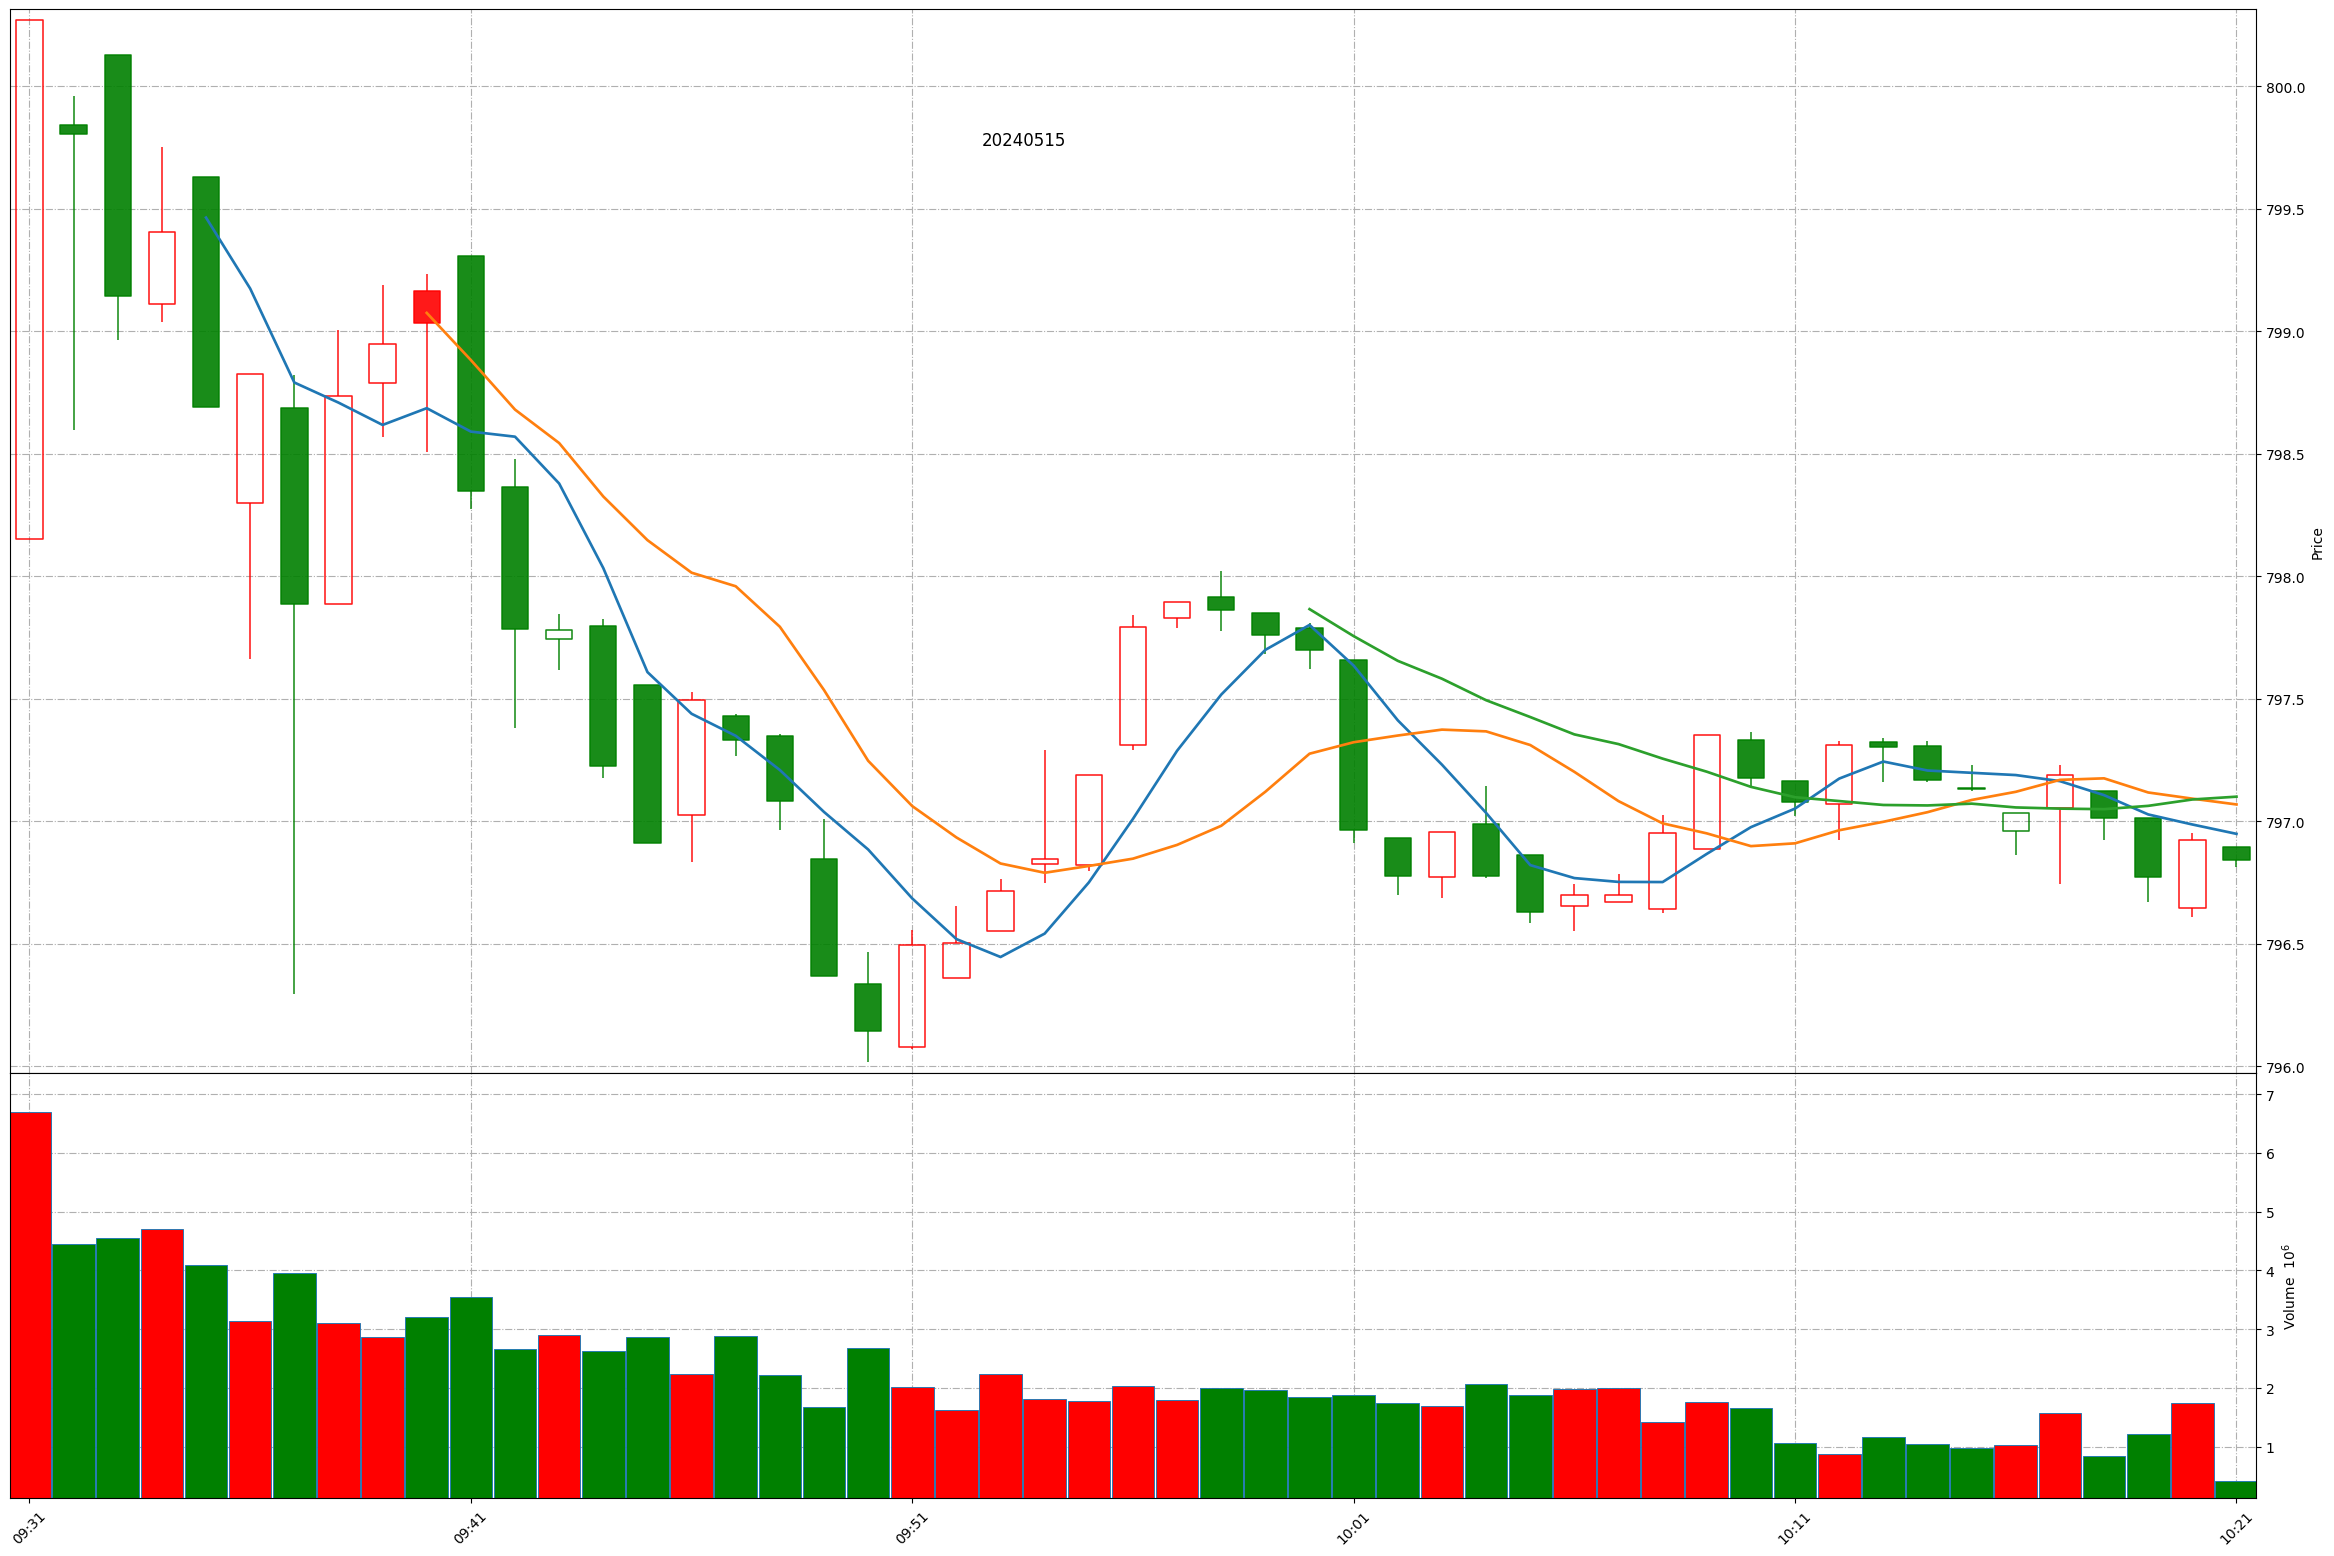
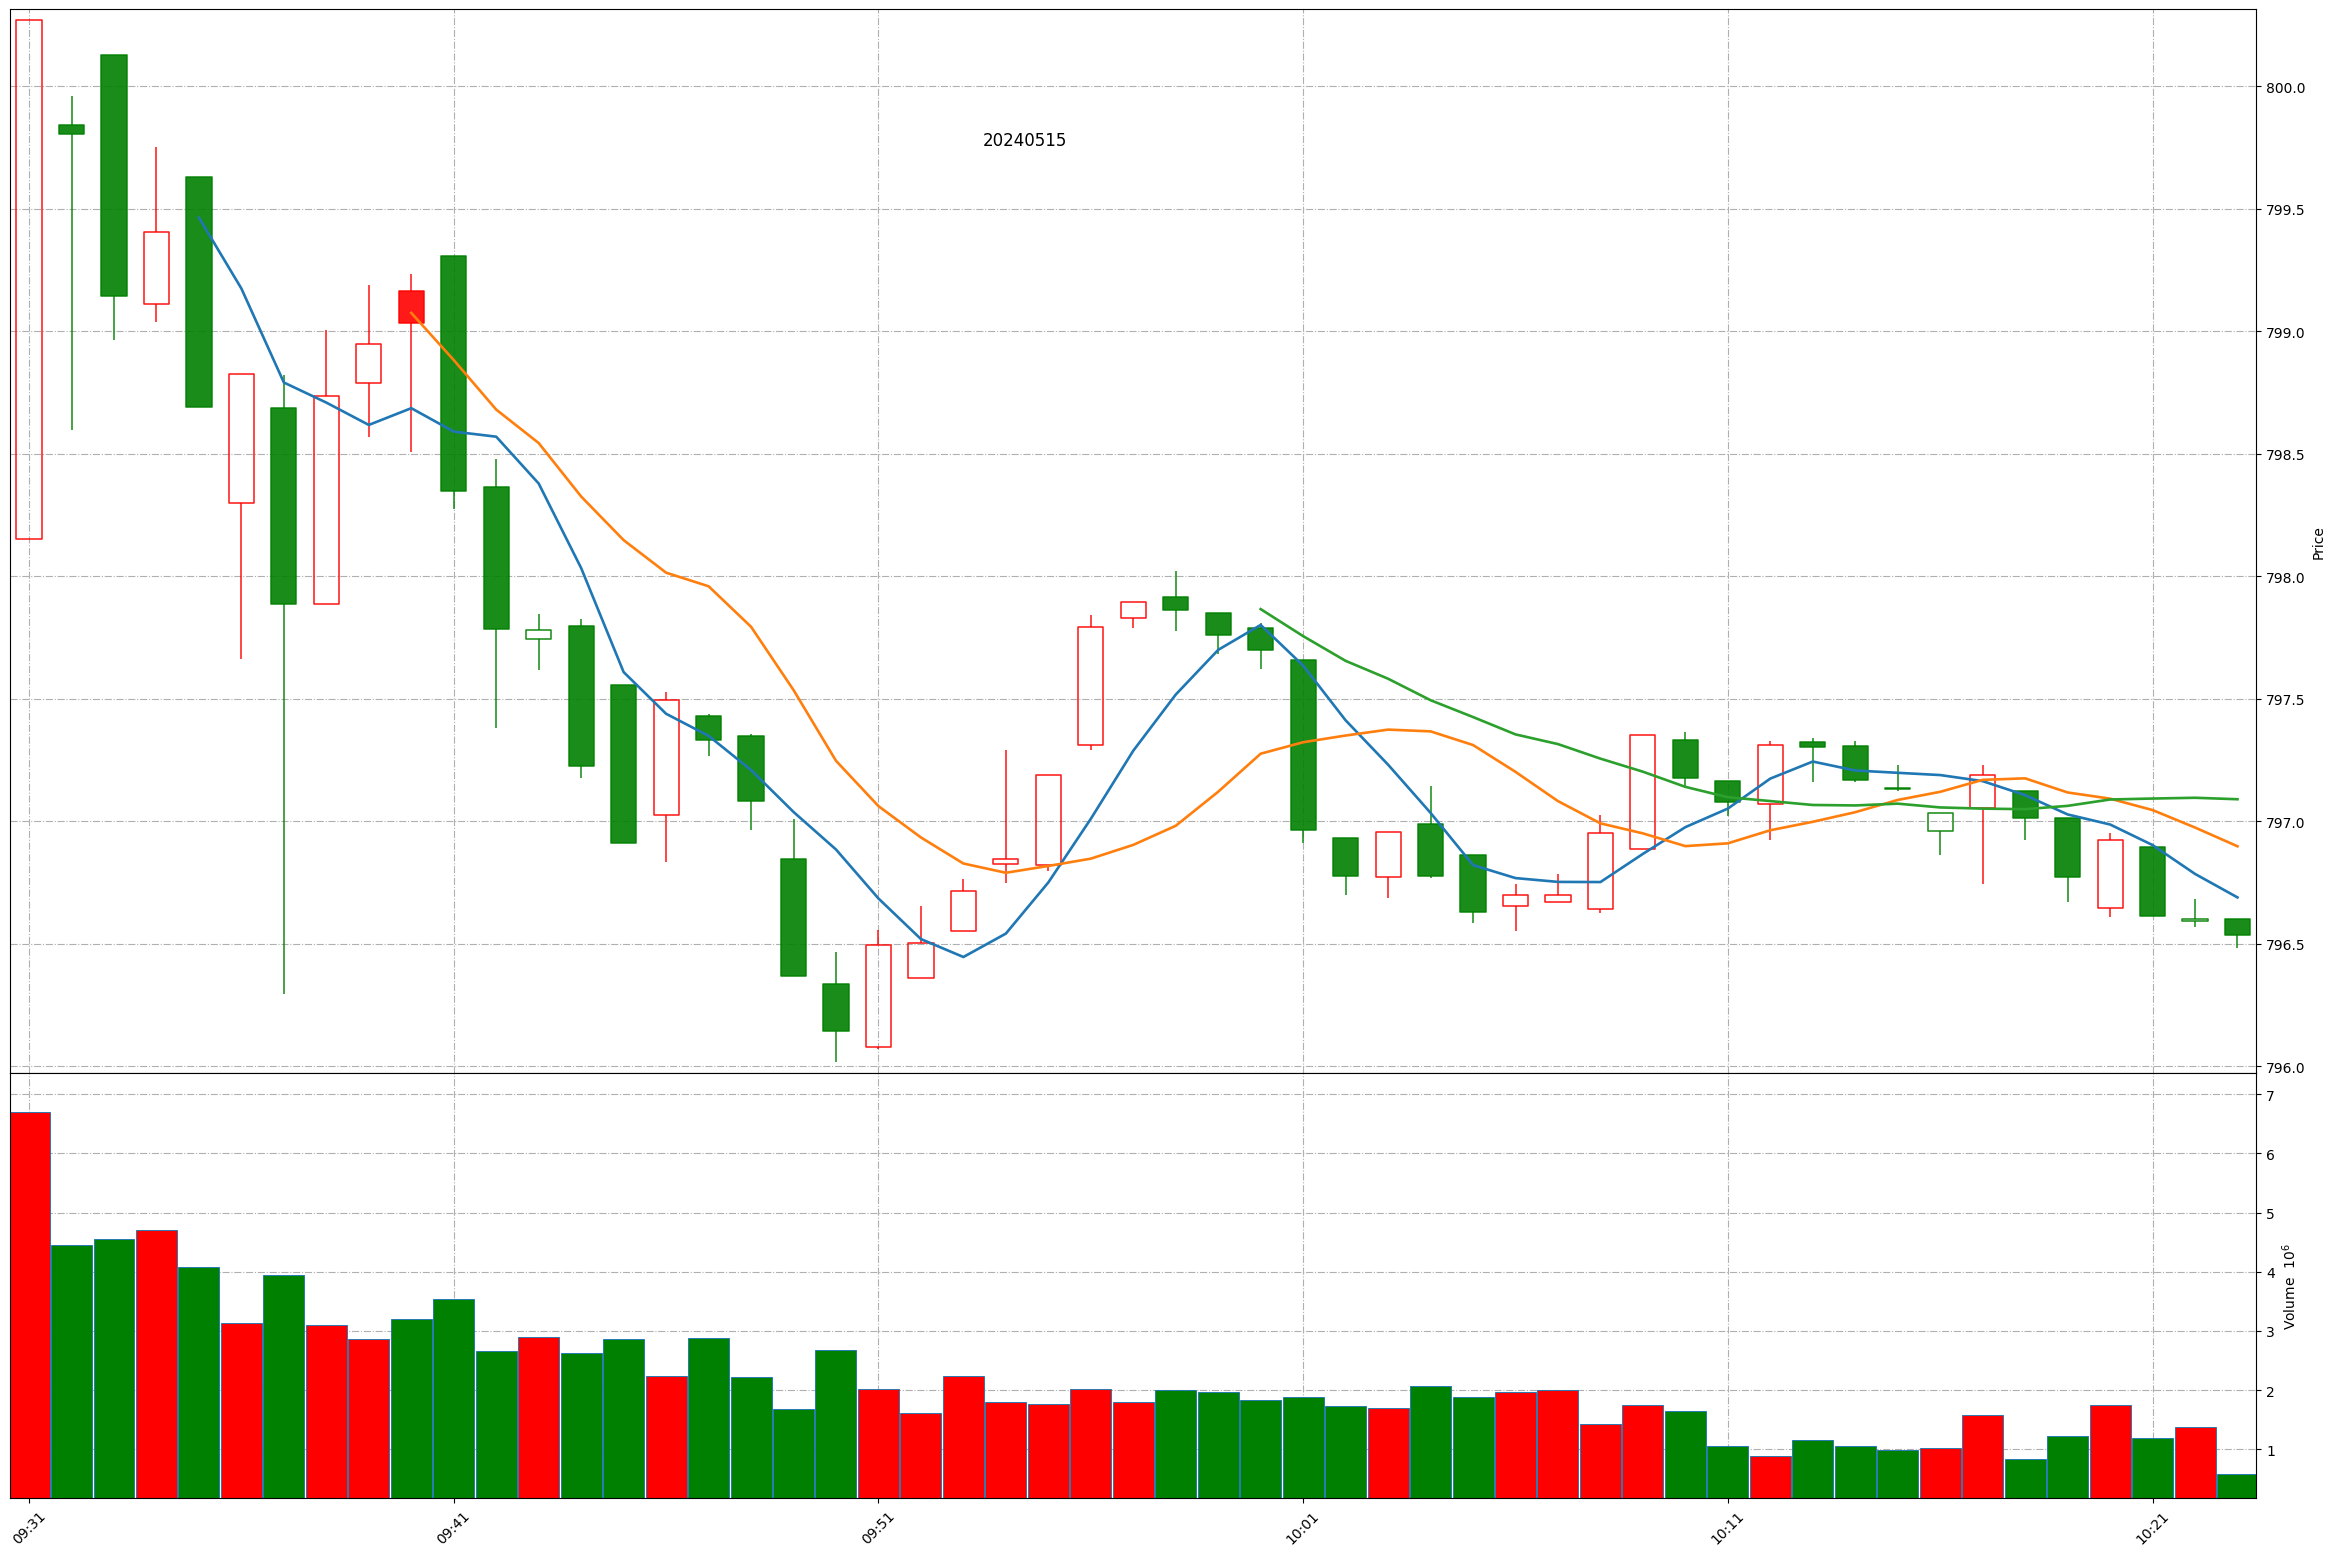
Github action update at 2024-05-15 10:22:51.

diff --git a/README.md b/README.md
@@ -1,11 +1,11 @@
 
 # Daily-A-share-market-quotes 每日 A 股指数（5min 更新）- 20240515
 
-### 上证指数 20240515 10:20
+### 上证指数 20240515 10:22
 ![](./fig/2024/5/20240515-sh000001.png)
 
-### 深证成指 20240515 10:20
+### 深证成指 20240515 10:22
 ![](./fig/2024/5/20240515-sz399001.png)
 
-### 北证50 20240515 10:20
+### 北证50 20240515 10:22
 ![](./fig/2024/5/20240515-bj899050.png)
